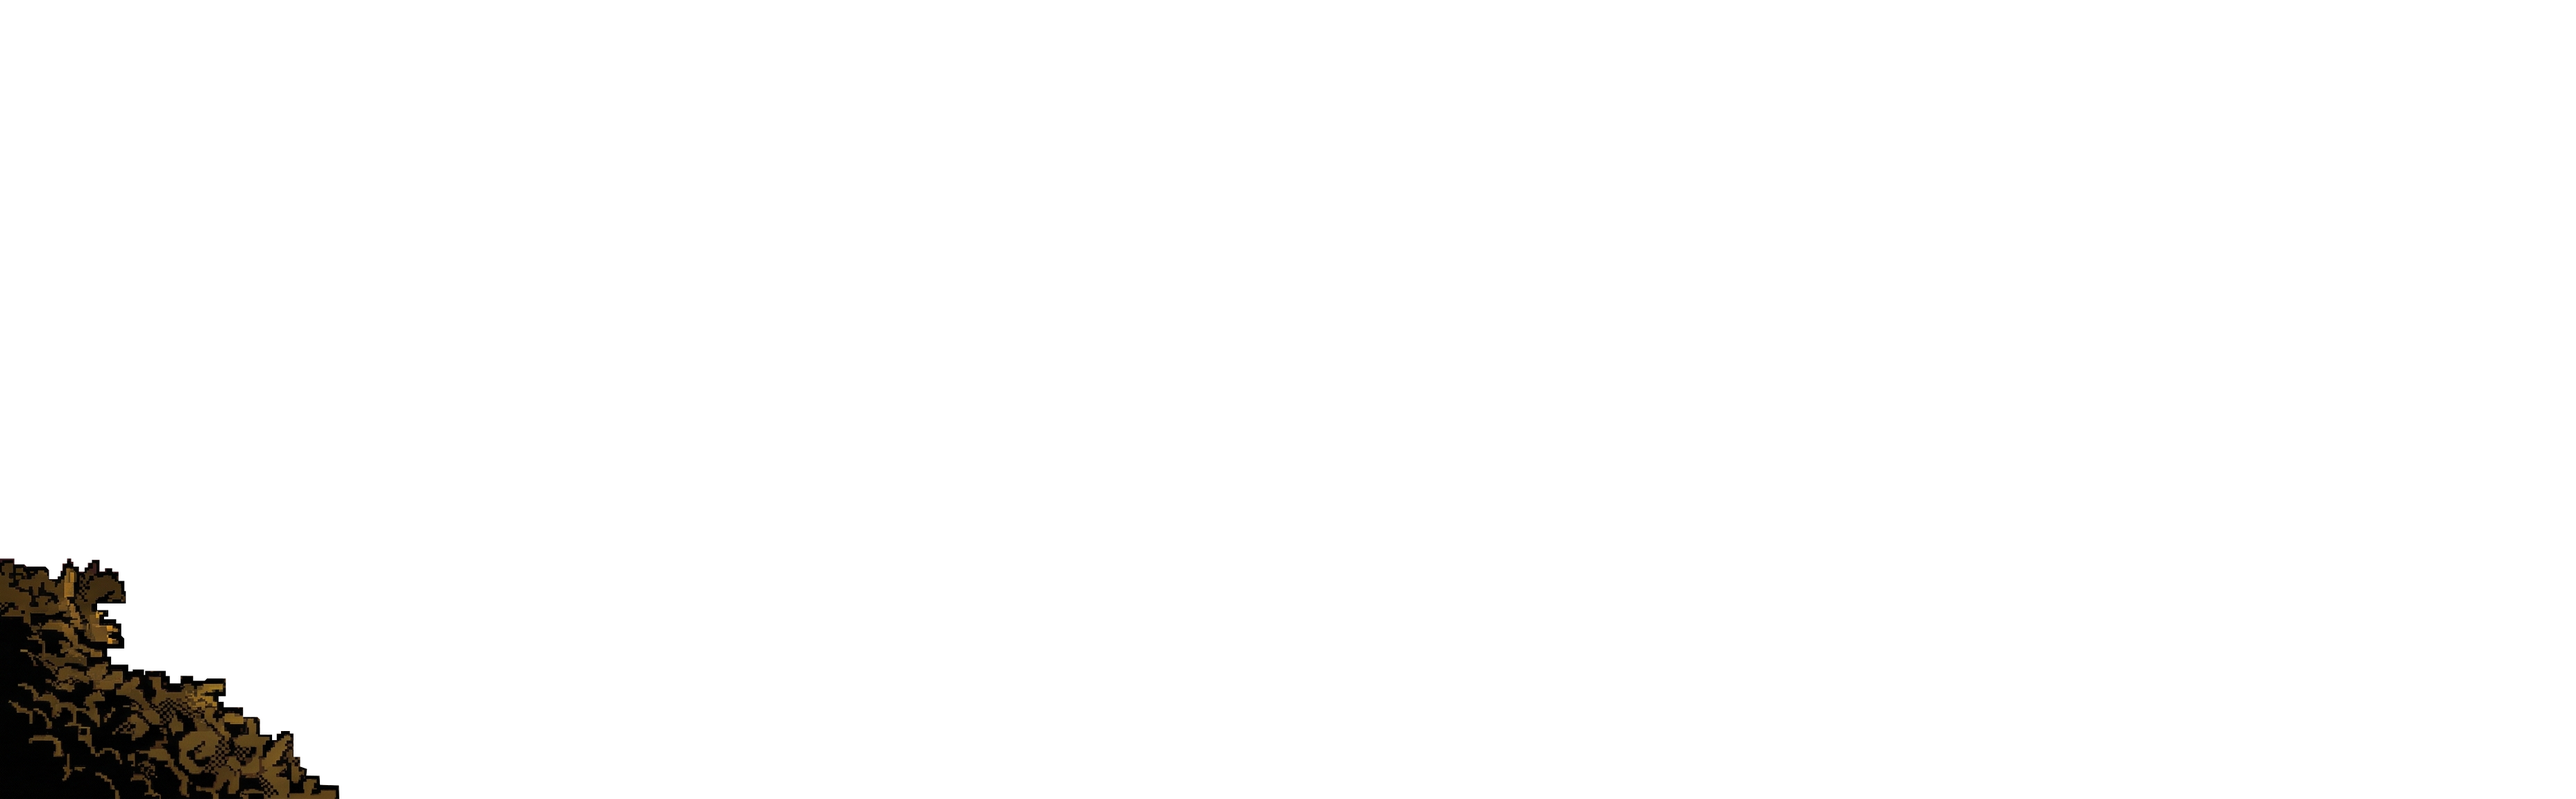
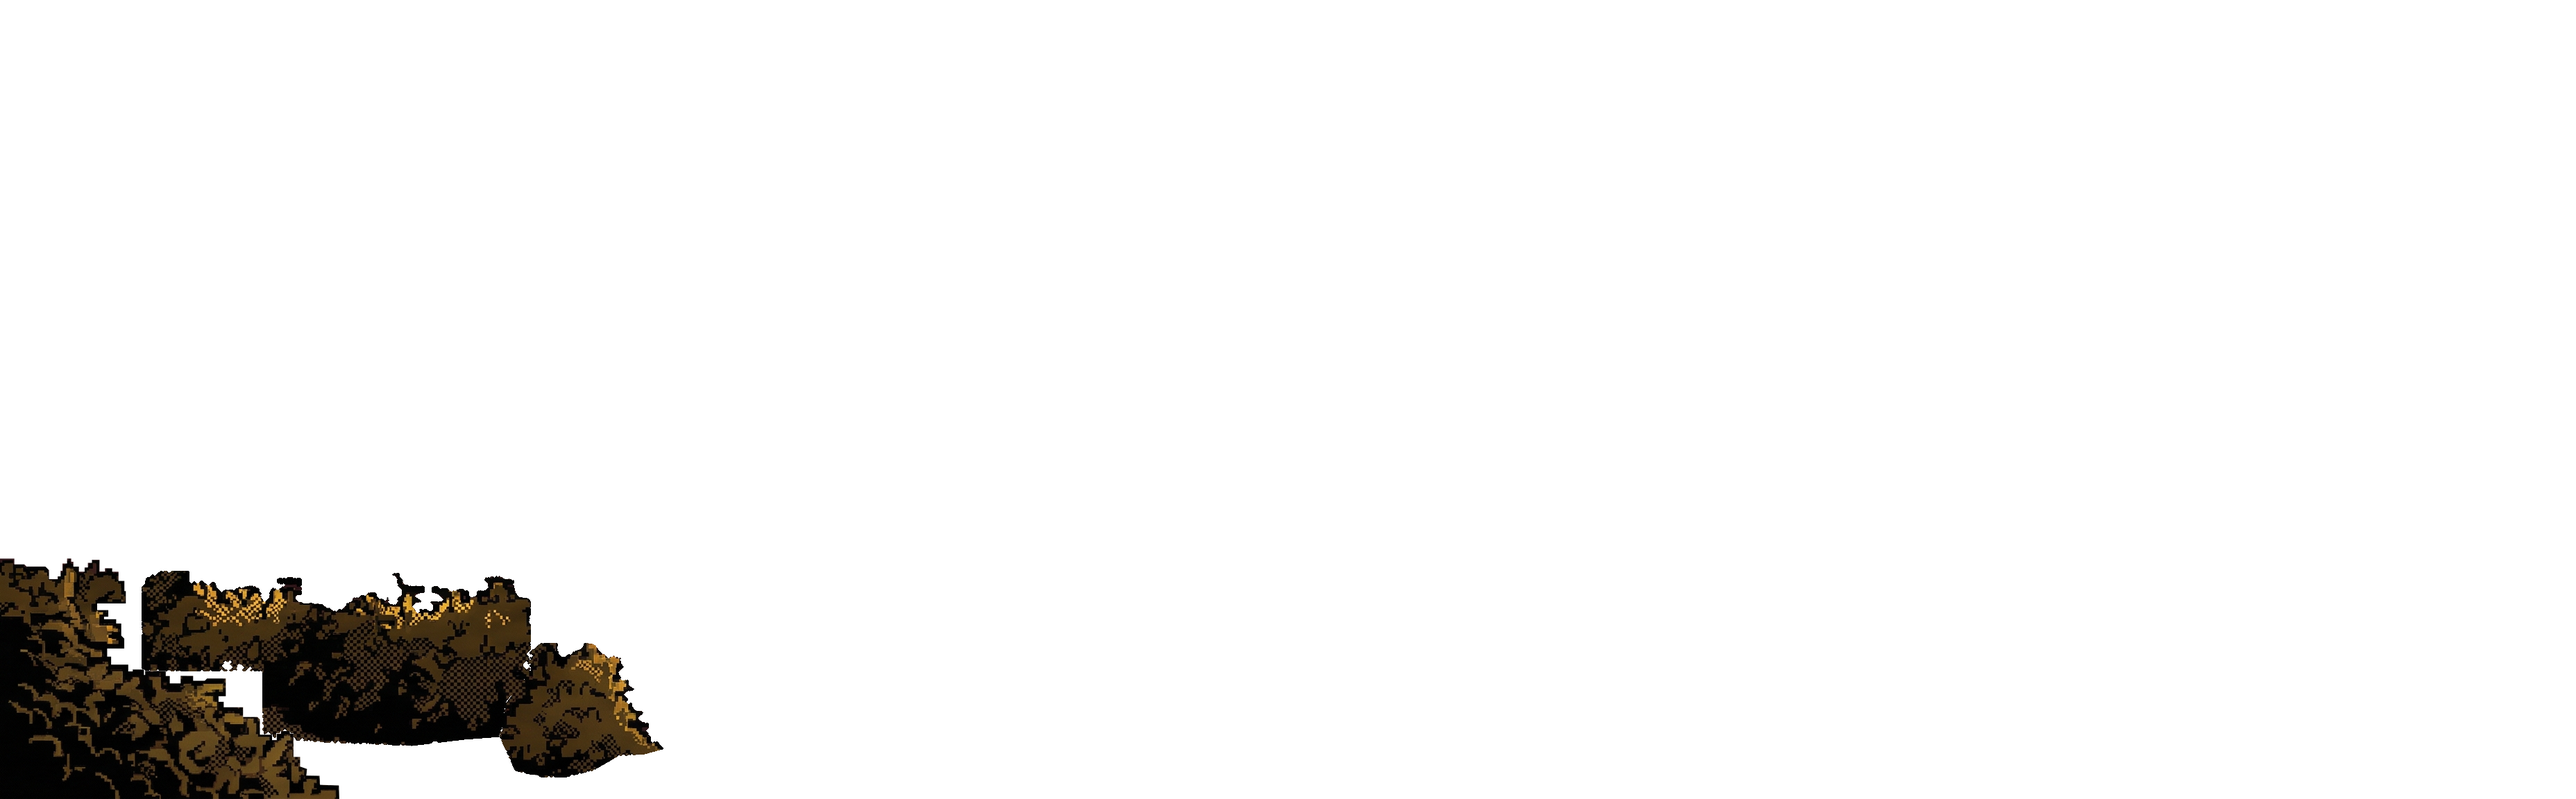
fix(scumm-A2.17): trozos del primer plano con máscara; arbusto de outside y maleza de mountain con su capa (fase 3)
- foregroundLayers[].mask: el trozo son solo los píxeles del primer plano bajo la máscara
  (misma textura, sin costura); GameScene los borra del resto con destination-out.
- mountain: maleza (base 97) separada de rocks_right (base 89,5).
- outside: los dos arbustos, copiados tal cual del fondo a foreground.png, con su capa
  (bush_left base 93, bush_right base 97,3); el blockedAreas se reduce al pie del pequeño.
- scripts/make-fg-layers.py (Pillow) genera máscaras, foreground y variantes.
- Barrido: los píxeles de un trozo con máscara; refs con layer.

Changed region(s): [[0.0312, 0.7188, 0.2812, 0.9688]]

diff --git a/src/scenes/GameScene.ts b/src/scenes/GameScene.ts
@@ -61,6 +61,9 @@ type TapHit =
   | { kind: 'npc'; npc: NPC }
   | { kind: 'scene'; pct: { x: number; y: number }; hotspot: HotspotData | null; rawHotspot: HotspotData | null };
 
+/** A2.17 fase 3: clave de la máscara de un trozo del primer plano (la misma que ScenePrefetch.sceneImageAssets) */
+const fgMaskKey = (sceneId: string, layerId: string) => `fgmask_${sceneId}_${layerId}`;
+
 /** A2.17 fase 2: caja en % → píxeles enteros de una textura de w×h */
 function pctRectToPx(b: { x: number; y: number; w: number; h: number }, w: number, h: number) {
   const x0 = Math.max(0, Math.round((b.x / 100) * w));
@@ -106,7 +109,7 @@ export class GameScene extends Phaser.Scene {
   private bg!: Phaser.GameObjects.Image;
   private fg?: Phaser.GameObjects.Image;
   /** A2.17 fase 2: trozos del primer plano con walk-behind (foregroundLayers), a la profundidad de su base */
-  private fgLayers: Phaser.GameObjects.Image[] = [];
+  private fgLayers: Array<{ img: Phaser.GameObjects.Image; bounds?: PctRect }> = [];
   private conditionalOverlays: Array<{ id: string; sprite: Phaser.GameObjects.Image; flag: string; invert?: boolean; bounds?: PctRect }> = [];
   /**
    * A1.4: visibilidad forzada por el op `flicker` (id del overlay → visible), por encima de la flag. Es solo
@@ -284,18 +287,30 @@ export class GameScene extends Phaser.Scene {
     this.fgLayers = [];
     const fgKey = `fg_${sceneId}`;
     if (this.textures.exists(fgKey)) {
-      const layers = (sceneData.foregroundLayers ?? []).filter((l) => l.bounds && Number.isFinite(l.baseY));
-      this.fg = this.add.image(0, 0, layers.length ? this.foregroundRest(fgKey, layers) : fgKey).setOrigin(0, 0);
+      // A2.17 fase 3: un trozo con `mask` sin su máscara cargada se ignora (sus píxeles se quedan en el primer plano)
+      const layers = (sceneData.foregroundLayers ?? []).filter((l) => l.bounds && Number.isFinite(l.baseY)
+        && (!l.mask || this.textures.exists(fgMaskKey(sceneId, l.id))));
+      this.fg = this.add.image(0, 0, layers.length ? this.foregroundRest(fgKey, sceneId, layers) : fgKey).setOrigin(0, 0);
       this.placeOverlay(this.fg);
       this.fg.setDepth(15);
-      // A2.17 fase 2: walk-behind por objeto: cada trozo, recortado de la misma textura, a la profundidad de su base
-      const src = this.textures.get(fgKey).getSourceImage() as { width: number; height: number };
+      // A2.17 fase 2: walk-behind por objeto: cada trozo, recortado de la misma textura, a la profundidad de su base.
+      // Fase 3: con `mask`, solo los píxeles de la máscara (textura canvas del tamaño de bounds).
+      const src = this.textures.get(fgKey).getSourceImage() as HTMLImageElement | HTMLCanvasElement;
+      for (const k of this.textures.getTextureKeys()) if (k.startsWith('fglayer_')) this.textures.remove(k);
       for (const l of layers) {
         const r = pctRectToPx(l.bounds, src.width, src.height);
-        const img = this.add.image(0, 0, fgKey).setOrigin(0, 0).setCrop(r.x, r.y, r.w, r.h);
-        this.placeOverlay(img);
+        let img: Phaser.GameObjects.Image;
+        let bounds: PctRect | undefined;
+        const piece = l.mask ? this.maskedForegroundPiece(src, r, `fglayer_${sceneId}_${l.id}`, fgMaskKey(sceneId, l.id)) : null;
+        if (piece) {
+          img = this.add.image(0, 0, piece).setOrigin(0, 0);
+          bounds = l.bounds;
+        } else {
+          img = this.add.image(0, 0, fgKey).setOrigin(0, 0).setCrop(r.x, r.y, r.w, r.h);
+        }
+        this.placeOverlay(img, bounds);
         img.setDepth(actorDepth(l.baseY));
-        this.fgLayers.push(img);
+        this.fgLayers.push({ img, bounds });
       }
     }
 
@@ -1175,7 +1190,7 @@ export class GameScene extends Phaser.Scene {
     // A5.1: fondo y primer plano como un overlay a tamaño de fondo (escala del fondo × mundo/textura)
     this.placeOverlay(this.bg);
     if (this.fg) this.placeOverlay(this.fg);
-    for (const l of this.fgLayers) this.placeOverlay(l);
+    for (const l of this.fgLayers) this.placeOverlay(l.img, l.bounds);
 
     this.player.onResize(this.coordSystem);
 
@@ -1215,7 +1230,7 @@ export class GameScene extends Phaser.Scene {
    * A2.17 fase 2: textura del primer plano SIN los trozos de `foregroundLayers` (borrados con clearRect), para que esos
    * trozos solo se dibujen una vez (a su profundidad). Se rehace en cada entrada; las de otras escenas se liberan.
    */
-  private foregroundRest(fgKey: string, layers: NonNullable<SceneData['foregroundLayers']>): string {
+  private foregroundRest(fgKey: string, sceneId: string, layers: NonNullable<SceneData['foregroundLayers']>): string {
     const key = `fgrest_${fgKey}`;
     for (const k of this.textures.getTextureKeys()) if (k.startsWith('fgrest_')) this.textures.remove(k);
     const src = this.textures.get(fgKey).getSourceImage() as HTMLImageElement | HTMLCanvasElement;
@@ -1225,9 +1240,36 @@ export class GameScene extends Phaser.Scene {
     ctx.drawImage(src, 0, 0);
     for (const l of layers) {
       const r = pctRectToPx(l.bounds, src.width, src.height);
-      ctx.clearRect(r.x, r.y, r.w, r.h);
+      if (!l.mask) {
+        ctx.clearRect(r.x, r.y, r.w, r.h);
+        continue;
+      }
+      // A2.17 fase 3: con máscara, solo se borran sus píxeles (el resto del rectángulo sigue a depth 15)
+      const mask = this.textures.get(fgMaskKey(sceneId, l.id)).getSourceImage() as HTMLImageElement | HTMLCanvasElement;
+      ctx.save();
+      ctx.globalCompositeOperation = 'destination-out';
+      ctx.drawImage(mask, r.x, r.y, r.w, r.h);
+      ctx.restore();
     }
     tex.refresh();
+    return key;
+  }
+
+  /**
+   * A2.17 fase 3: trozo del primer plano recortado a `r` (píxeles de la textura del primer plano) y enmascarado: los
+   * mismos píxeles que el resto del primer plano (la misma variante: sin costura ni halo) solo donde la máscara es opaca.
+   */
+  private maskedForegroundPiece(src: HTMLImageElement | HTMLCanvasElement, r: { x: number; y: number; w: number; h: number }, key: string, maskKey: string): string | null {
+    if (r.w <= 0 || r.h <= 0) return null;
+    const tex = this.textures.createCanvas(key, r.w, r.h);
+    if (!tex) return null;
+    const ctx = tex.getContext();
+    ctx.drawImage(src, r.x, r.y, r.w, r.h, 0, 0, r.w, r.h);
+    ctx.globalCompositeOperation = 'destination-in';
+    ctx.drawImage(this.textures.get(maskKey).getSourceImage() as HTMLImageElement | HTMLCanvasElement, 0, 0, r.w, r.h);
+    ctx.globalCompositeOperation = 'source-over';
+    tex.refresh();
+    tex.setFilter(Phaser.Textures.FilterMode.LINEAR);
     return key;
   }
 

diff --git a/src/systems/ScenePrefetch.ts b/src/systems/ScenePrefetch.ts
@@ -36,6 +36,7 @@ export interface PrefetchScene {
   transitions?: { goto?: Array<{ targetScene?: string }> };
   conditionalOverlays?: Array<{ id: string; sprite: string; format?: 'png' | 'webp'; bounds?: unknown }>;
   web3Visuals?: Array<{ defaultSprite: string; variants?: Array<{ sprite: string }> }>;
+  foregroundLayers?: Array<{ id: string; mask?: string }>;
   audio?: { music?: string | null; ambience?: string | null };
 }
 
@@ -98,7 +99,11 @@ export function sceneImageAssets(sceneId: string, scene: PrefetchScene | null | 
   const full = (name: string) => `${base}/${variantFile(name, variant)}${v}`;
   const out: SceneAsset[] = [{ key: `bg_${sceneId}`, url: full('background') }];
   if (!scene) return out;
-  if (scene.assets?.foreground) out.push({ key: `fg_${sceneId}`, url: full('foreground') });
+  if (scene.assets?.foreground) {
+    out.push({ key: `fg_${sceneId}`, url: full('foreground') });
+    // A2.17 fase 3: máscaras de los trozos del primer plano con walk-behind (≈ 1 KB cada una)
+    for (const l of scene.foregroundLayers ?? []) if (l.mask) out.push({ key: `fgmask_${sceneId}_${l.id}`, url: `${base}/${l.mask}${v}` });
+  }
   for (const co of scene.conditionalOverlays ?? []) {
     const ext = co.format === 'webp' ? 'webp' : 'png';
     out.push({ key: `overlay_${sceneId}_${co.id}`, url: isFullFrame(co.bounds) ? full(co.sprite) : `${base}/${co.sprite}.${ext}${v}` });

diff --git a/src/types/scene.types.ts b/src/types/scene.types.ts
@@ -74,7 +74,17 @@ export interface SceneData {
    * la y de los pies (actorDepth). Pies por debajo de la base (y mayor) = Dex delante; por encima = el trozo le tapa.
    * El resto del primer plano sigue a depth 15 (siempre delante).
    */
-  foregroundLayers?: Array<{ id: string; bounds: { x: number; y: number; w: number; h: number }; baseY: number }>;
+  foregroundLayers?: Array<{
+    id: string;
+    bounds: { x: number; y: number; w: number; h: number };
+    baseY: number;
+    /**
+     * A2.17 fase 3: máscara (fichero de la escena, WebP sin pérdida del tamaño de `bounds` en el maestro; la genera
+     * scripts/make-fg-layers.py): el trozo son solo los píxeles del primer plano donde es opaca, no el rectángulo entero
+     * (p. ej. la maleza delante de las rocas, o un arbusto junto a un seto que debe seguir delante).
+     */
+    mask?: string;
+  }>;
   npcs?: NPCData[];
   dialogues?: Record<string, DialogueTreeData>;
   /** Scripts that run automatically when the scene loads */

diff --git a/scripts/make-fg-layers.py b/scripts/make-fg-layers.py
@@ -1,0 +1,174 @@
+#!/usr/bin/env python3
+"""A2.17 fase 3: máscaras de los trozos del primer plano con walk-behind (`foregroundLayers[].mask` de scene.json).
+
+Un trozo con `mask` se dibuja con los píxeles del primer plano (la MISMA textura que carga el juego, así que no hay
+costura ni halo) solo donde la máscara es opaca, a la profundidad de su base; GameScene borra esos mismos píxeles del
+resto del primer plano. La máscara es un WebP sin pérdida del tamaño de `bounds` (en píxeles del maestro de 3712×1152).
+
+  python3 scripts/make-fg-layers.py            genera las máscaras y, en outside, el arbusto del fondo en el primer plano
+  python3 scripts/make-fg-layers.py --check    rc 1 si falta una máscara declarada en scene.json o no mide lo que toca
+
+- mountain / maleza: la maleza del pie de las rocas (x 82–100, y 70–100) que está en foreground.png junto con las rocas.
+  Se separa de la roca por color (hojas naranjas frente a roca morada; los oscuros y el tramado, por mayoría de vecinos
+  en 15×15) dentro de una zona a mano (x ≥ 88 con y ≥ 70, o x ≥ 82 con y ≥ 84); por debajo de y 84 y a la derecha de
+  x 86 es todo maleza (la roca grande queda tapada).
+- outside / bush_left y bush_right: los dos arbustos están pintados en el FONDO. Se copian TAL CUAL (mismos píxeles,
+  alfa 0/255: sin halo) del fondo a foreground.png donde dice la máscara, y se rehacen foreground.webp (sin pérdida) y
+  las variantes @1280/@2048 (Lanczos + WebP calidad 90 con el alfa sin pérdida, como scripts/make-bg-variants.mjs).
+  La máscara sale de una zona a mano por arbusto (borde de abajo medido a ojo) ∩ color de arbusto (oliva, amarillo,
+  negro neutro; no la casa marrón ni el suelo negro rojizo) con el borde de arriba en la primera hoja oliva de cada
+  columna, y nunca donde ya hay seto en foreground.png.
+
+Idempotente: si la máscara ya existe, los píxeles bajo ella no cuentan como «seto que ya estaba» al volver a correr.
+Sin servicios de pago: Pillow + numpy + scipy.
+"""
+import json
+import os
+import sys
+
+import numpy as np
+from PIL import Image, ImageDraw
+from scipy import ndimage as nd
+
+ROOT = os.path.join(os.path.dirname(os.path.abspath(__file__)), '..')
+SCENES = os.path.join(ROOT, 'assets', 'scenes')
+VARIANT_WIDTHS = [1280, 2048]  # los de src/systems/SceneTextures.ts
+
+
+def px_rect(b, w, h):
+    """Como pctRectToPx de GameScene: caja en % → píxeles enteros"""
+    x0 = max(0, round(b['x'] / 100 * w)); y0 = max(0, round(b['y'] / 100 * h))
+    x1 = min(w, round((b['x'] + b['w']) / 100 * w)); y1 = min(h, round((b['y'] + b['h']) / 100 * h))
+    return x0, y0, x1, y1
+
+
+def layers(scene):
+    d = json.load(open(os.path.join(SCENES, scene, 'scene.json'), encoding='utf-8'))
+    return {l['id']: l for l in d.get('foregroundLayers', []) if l.get('mask')}
+
+
+def poly(pts, w, h):
+    im = Image.new('L', (w, h), 0)
+    ImageDraw.Draw(im).polygon([(x * w / 100, y * h / 100) for x, y in pts], fill=1)
+    return np.array(im) > 0
+
+
+def majority(yes, no, k):
+    kern = np.ones((k, k))
+    return np.where(yes, True, np.where(no, False, nd.convolve(yes.astype(float), kern, mode='constant') > nd.convolve(no.astype(float), kern, mode='constant')))
+
+
+def save_mask(scene, layer, m, w, h):
+    x0, y0, x1, y1 = px_rect(layer['bounds'], w, h)
+    a = (m[y0:y1, x0:x1] * 255).astype(np.uint8)
+    out = np.zeros((y1 - y0, x1 - x0, 4), np.uint8); out[..., :3] = 255; out[..., 3] = a
+    path = os.path.join(SCENES, scene, layer['mask'])
+    Image.fromarray(out, 'RGBA').save(path, 'WEBP', lossless=True, quality=100, method=6)
+    print(f'{scene}/{layer["mask"]}: {x1 - x0}×{y1 - y0}, {int(m.sum())} px, {os.path.getsize(path) // 1024} KB')
+
+
+def load_mask(scene, layer, w, h):
+    path = os.path.join(SCENES, scene, layer['mask'])
+    full = np.zeros((h, w), bool)
+    if not os.path.exists(path):
+        return full
+    x0, y0, x1, y1 = px_rect(layer['bounds'], w, h)
+    a = np.array(Image.open(path).convert('RGBA'))[..., 3] > 127
+    full[y0:y0 + a.shape[0], x0:x0 + a.shape[1]] = a[: y1 - y0, : x1 - x0]
+    return full
+
+
+def mountain():
+    L = layers('mountain')
+    a = np.array(Image.open(os.path.join(SCENES, 'mountain', 'foreground.png')).convert('RGBA')).astype(int)
+    h, w = a.shape[:2]
+    ys, xs = np.mgrid[0:h, 0:w]; X = xs * 100 / w; Y = ys * 100 / h
+    R, G, B, A = a[..., 0], a[..., 1], a[..., 2], a[..., 3]
+    alpha = A > 128
+    orange = (R > B + 15) & (R + G + B > 60)
+    purple = ((B > R + 8) | ((B > G + 20) & (R < B + 10))) & (R + G + B > 30)
+    fol = majority(orange, purple, 15)
+    region = ((X >= 88) & (Y >= 70)) | ((X >= 82) & (Y >= 84))
+    force = (Y >= 84) & (X >= 86)
+    m = alpha & region & (fol | force)
+    m = nd.binary_opening(m, iterations=1)
+    m = nd.binary_closing(m, iterations=2) & alpha
+    m = nd.binary_fill_holes(m) & alpha
+    save_mask('mountain', L['maleza'], m, w, h)
+
+
+def outside():
+    L = layers('outside')
+    fg_path = os.path.join(SCENES, 'outside', 'foreground.png')
+    bg = np.array(Image.open(os.path.join(SCENES, 'outside', 'background.png')).convert('RGB')).astype(int)
+    fg = np.array(Image.open(fg_path).convert('RGBA'))
+    h, w = bg.shape[:2]
+    prev = np.zeros((h, w), bool)
+    for l in L.values():
+        prev |= load_mask('outside', l, w, h)
+    hedge = (fg[..., 3] > 0) & ~prev  # el seto que ya estaba en foreground.png
+    R, G, B = bg[..., 0], bg[..., 1], bg[..., 2]
+    mx = bg.max(-1); mn = bg.min(-1)
+    olive = (R >= G) & (G > B) & (B < 0.5 * G + 8) & (G > 0.55 * R) & (mx > 25)
+    neutral = (mx - mn <= 4) & (mx < 30)
+    house = ((R - G > 25) & (B > 0.55 * G)) | ((G <= 3) & (R > G + 3))
+    lab = majority(olive | neutral, house, 9)
+    regions = {
+        # zona a mano: generosa por arriba (manda la primera hoja oliva), ajustada abajo (base medida a ojo)
+        'bush_left': [(5.5, 71.5), (20.6, 71.5), (20.6, 84), (19.6, 88), (19.4, 92.2), (18, 92.6), (16, 93.4), (13, 93),
+                      (11, 92.6), (10.2, 92), (10.2, 84), (5.5, 84)],
+        'bush_right': [(19.6, 84), (21, 80.5), (23.6, 80.5), (25, 86), (25.9, 93.6), (25, 94.4), (24, 94.7), (23, 96.5),
+                       (22, 97.3), (21, 97.3), (20, 96.5), (19.4, 92.2), (19.6, 88)],
+    }
+    union = np.zeros((h, w), bool)
+    for lid, pts in regions.items():
+        reg = poly(pts, w, h) & ~union  # un píxel, un solo trozo
+        ol = nd.binary_dilation(reg & olive & ~hedge, iterations=2)
+        cols = np.where(ol.any(0), ol.argmax(0), h)
+        cols = nd.minimum_filter1d(cols, size=9)
+        top = np.arange(h)[:, None] >= cols[None, :]
+        m = reg & lab & ~hedge & top
+        m = nd.binary_opening(m, iterations=1)
+        m = nd.binary_closing(m, iterations=2)
+        m = nd.binary_fill_holes(m) & reg & ~hedge
+        lb, n = nd.label(m)
+        sizes = nd.sum(m, lb, range(1, n + 1))
+        m &= np.isin(lb, [i + 1 for i, s in enumerate(sizes) if s > 400])
+        save_mask('outside', L[lid], m, w, h)
+        union |= m
+    # los píxeles del arbusto, tal cual, al primer plano (alfa 255)
+    fg[union, :3] = bg[union].astype(np.uint8)
+    fg[union, 3] = 255
+    img = Image.fromarray(fg, 'RGBA')
+    img.save(fg_path, optimize=True)
+    img.save(os.path.join(SCENES, 'outside', 'foreground.webp'), 'WEBP', lossless=True, quality=100, method=6)
+    for vw in VARIANT_WIDTHS:
+        vh = round(vw * h / w)
+        v = img.convert('RGBa').resize((vw, vh), Image.LANCZOS).convert('RGBA')
+        p = os.path.join(SCENES, 'outside', f'foreground@{vw}.webp')
+        v.save(p, 'WEBP', quality=90, alpha_quality=100, method=6)
+        print(f'outside/foreground@{vw}.webp: {os.path.getsize(p) // 1024} KB')
+
+
+def check():
+    bad = 0
+    for scene in sorted(os.listdir(SCENES)):
+        if not os.path.exists(os.path.join(SCENES, scene, 'scene.json')):
+            continue
+        for l in layers(scene).values():
+            path = os.path.join(SCENES, scene, l['mask'])
+            x0, y0, x1, y1 = px_rect(l['bounds'], 3712, 1152)
+            if not os.path.exists(path):
+                print(f'falta {scene}/{l["mask"]}'); bad += 1; continue
+            size = Image.open(path).size
+            if size != (x1 - x0, y1 - y0):
+                print(f'{scene}/{l["mask"]} mide {size} y su bounds pide {(x1 - x0, y1 - y0)}'); bad += 1
+    print('máscaras: ok' if not bad else f'máscaras: {bad} mal')
+    return bad
+
+
+if __name__ == '__main__':
+    if '--check' in sys.argv:
+        sys.exit(1 if check() else 0)
+    mountain()
+    outside()
